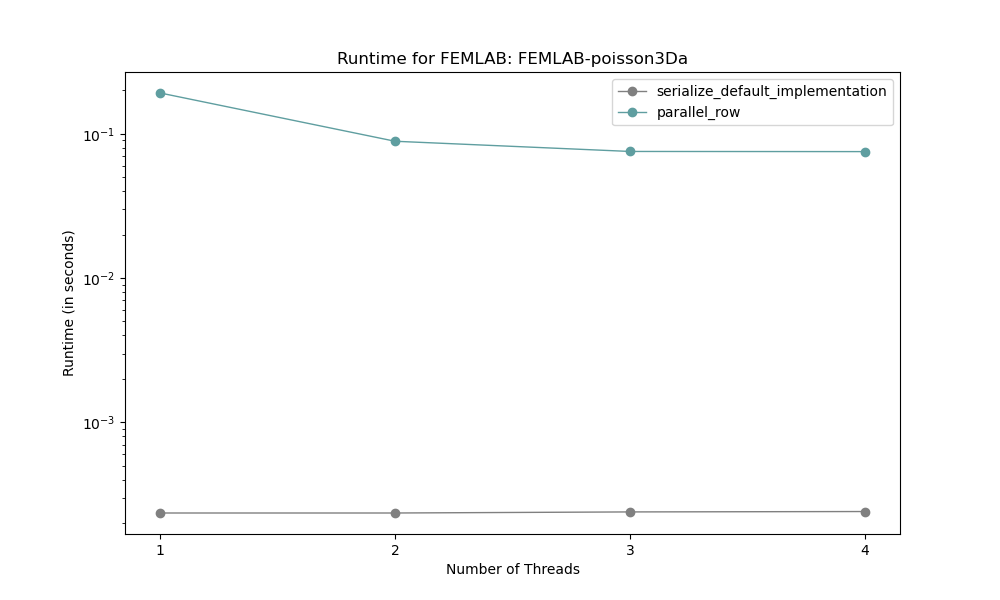
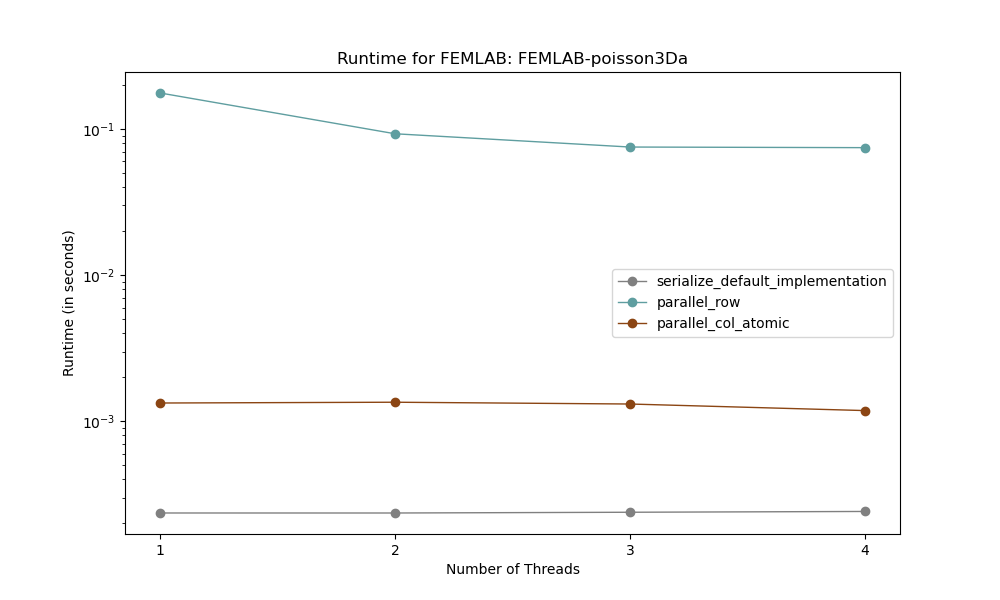
Create parallel_col_atomic; Need to check for error in kernel-generated code

diff --git a/parallel/spmv/graph.py b/parallel/spmv/graph.py
@@ -11,7 +11,7 @@ RESULTS_FOLDER = "results"
 NTHREADS = [1, 2, 3, 4]
 
 DEFAULT_METHOD = "serialize_default_implementation"
-METHODS = [DEFAULT_METHOD, "parallel_row"]
+METHODS = [DEFAULT_METHOD, "parallel_row", "parallel_col_atomic"]
 
 DATASETS = [
     {"uniform": ["1000-0.1", "10000-0.1"]},
